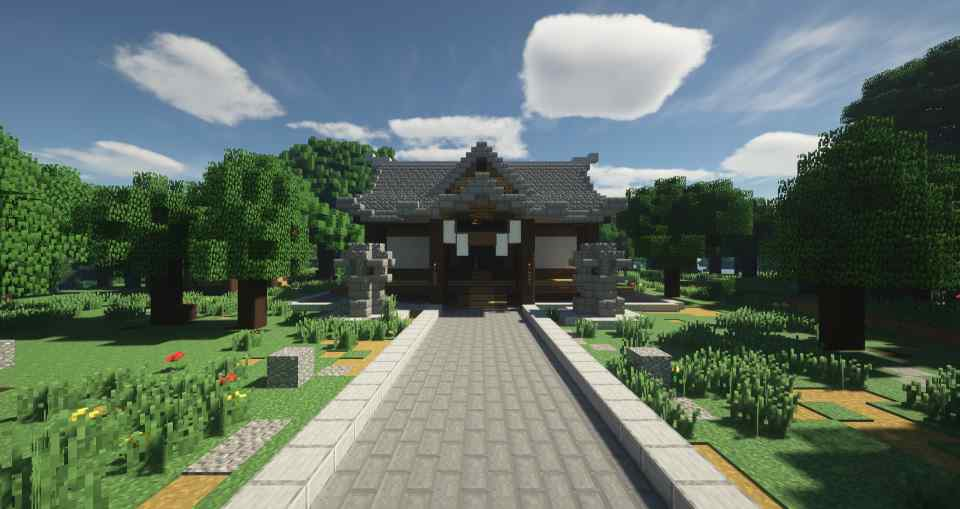
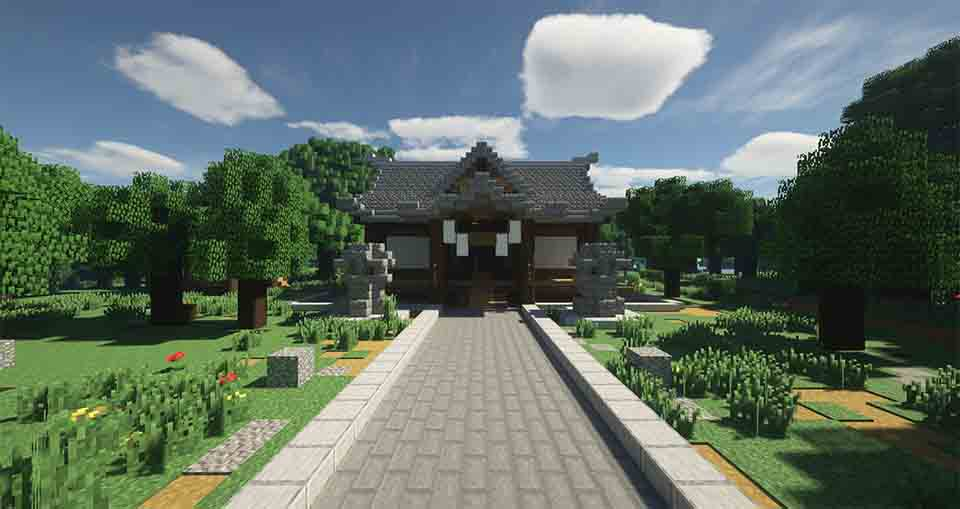
Use WebP images

diff --git a/src/modernizr-custom.js b/src/modernizr-custom.js
@@ -1,0 +1,3 @@
+/*! modernizr 3.6.0 (Custom Build) | MIT *
+ * https://modernizr.com/download/?-webp-setclasses !*/
[1 lines of base64/hex data omitted]

diff --git a/src/pages/InfoPage.vue b/src/pages/InfoPage.vue
@@ -1,5 +1,5 @@
 <template>
-	<normal-page :parallax-high-res-image="require('../images/hakurei.png')" :parallax-low-res-image="require('../images/hakurei_small.jpg')">
+	<normal-page :parallax-images="images">
 		<template v-slot:parallax>
 			<h1>Yukkuricraft Info</h1>
 			<p>A collection of information so you don't have to go looking for it elsewhere.</p>
@@ -24,7 +24,7 @@
 			</div>
 			<div class="col-md-6">
 				<div class="embed-responsive embed-responsive-16by9">
-					<iframe v-if="pageLoaded" class="embed-responsive-item" src="https://www.youtube-nocookie.com/embed/L6mD2zj8CGs"
+					<iframe loading="lazy" class="embed-responsive-item" src="https://www.youtube-nocookie.com/embed/L6mD2zj8CGs"
 							frameborder="0" allow="accelerometer; autoplay; encrypted-media; gyroscope; picture-in-picture"
 							allowfullscreen></iframe>
 				</div>
@@ -77,12 +77,6 @@
 					<li><a href="https://forms.gle/gwFiECrDKNiJwLzH8">Ban appeals</a></li>
 				</ul>
 			</div>
-			<!--
-			<div class="col-md-4">
-				<iframe src="https://discordapp.com/widget?id=201938197171798017&theme=light"
-						width="350" height="500" allowtransparency="true" frameborder="0"></iframe>
-			</div>
-			-->
 		</div>
 
 		<h2 id="contact">Contact Us</h2>
@@ -108,6 +102,7 @@
 	import ParallaxImage from "../components/ParallaxImage";
 	import InfoFooter from "../components/InfoFooter";
 	import NormalPage from "../layout/NormalPage";
+	import {makeImage} from "../images";
 
 	export default {
 		components: {
@@ -115,14 +110,15 @@
 			ParallaxImage,
 			InfoFooter
 		},
-		data() {
-			return {
-				pageLoaded: false
+		computed: {
+			images() {
+				return makeImage(
+					require('../images/hakurei.png'),
+					require('../images/hakurei.webp'),
+					require('../images/hakurei_small.jpg'),
+					require('../images/hakurei_small.webp'),
+				)
 			}
-		},
-		mounted() {
-			//Delay loading youtube video just a bit
-			this.pageLoaded = true;
 		}
 	}
 </script>

diff --git a/src/components/ParallaxImage.vue b/src/components/ParallaxImage.vue
@@ -1,6 +1,11 @@
 <template>
 	<div class="parallax" :style="{height: '600px', 'background-image': 'url(' + imageToUse + ')' }">
-		<img v-show="false" :src="highResImage" @load="switchImage" alt="High res background">
+		<picture @load="switchImage">
+			<source :srcset="images.highResWebp" type="image/webp" @load="switchImage">
+			<source :srcset="images.highRes" :type="images.type" @load="switchImage">
+
+			<img v-show="false" :src="images.highRes" @load="switchImage" alt="High res background">
+		</picture>
 		<div class="container h-100">
 			<div class="row text-center align-items-center h-100">
 				<div class="col-md-2"></div>
@@ -17,20 +22,25 @@
 	export default {
 		data() {
 			return {
-				imageToUse: this.lowResImage,
+				imageToUse: Modernizr.webp ? this.images.lowResWebp : this.images.lowRes
 			}
 		},
 		props: {
-			lowResImage: String,
-			highResImage: String,
+			images: Object,
 			height: {
 				type: Number,
 				default: 600
 			}
 		},
 		methods: {
-			switchImage() {
-				this.imageToUse = this.highResImage;
+			switchImage(event) {
+				console.log(event);
+				if(typeof event.target.currentSrc === 'undefined') {
+					this.imageToUse = event.target.src;
+				}
+				else {
+					this.imageToUse = event.target.currentSrc;
+				}
 			}
 		}
 	}

diff --git a/src/pages/gensokyo/LocationsPage.vue b/src/pages/gensokyo/LocationsPage.vue
@@ -1,6 +1,5 @@
 <template>
-	<sidebar-page :parallax-high-res-image="require('../../images/greenhouse.png')"
-				  :parallax-low-res-image="require('../../images/greenhouse.png')">
+	<sidebar-page :parallax-images="images">
 		<template v-slot:sidebar>
 			<div class="sidebar-header">
 				<h2>Locations</h2>
@@ -38,6 +37,7 @@
 	import neoYoukaiMnt from "./neo/youkai_mnt.yaml";
 	import neoHumanVillage from "./neo/human_village.yaml";
 	import neoForestMagic from "./neo/forest_magic.yaml"
+	import {makeImage} from "../../images";
 
 
 	let allLocations = merge({}, neoGenso, neoSdm, neoUntroddenValley, neoYoukaiMnt, neoHumanVillage, neoForestMagic);
@@ -49,6 +49,14 @@
 			Locations
 		},
 		computed: {
+			images() {
+				return makeImage(
+					require('../../images/greenhouse.png'),
+					require('../../images/greenhouse.webp'),
+					require('../../images/greenhouse_small.jpg'),
+					require('../../images/greenhouse_small.webp'),
+				)
+			},
 			locations() {
 				return allLocations
 			}

diff --git a/src/pages/downloads/Download.vue b/src/pages/downloads/Download.vue
@@ -1,5 +1,5 @@
 <template>
-	<normal-page :parallax-high-res-image="require('../../images/hakurei_inside.png')" :parallax-low-res-image="require('../../images/hakurei_inside_small.jpg')">
+	<normal-page :parallax-images="images">
 		<template v-slot:parallax>
 			<h1>"Gensokyo ~ The Second Dream" Map download</h1>
 			<a class="btn btn-primary" href="https://mega.nz/#F!5hU2HCJC!IpwU8ZjpwSALOgLjoZtNlA">Downloads</a>
@@ -47,12 +47,21 @@
 
 <script>
 	import NormalPage from "../../layout/NormalPage";
+	import {makeImage} from "../../images";
 
 	export default {
 		components: {NormalPage},
 		computed: {
 			showI18nExample() {
 				return false
+			},
+			images() {
+				return makeImage(
+					require('../../images/hakurei_inside.png'),
+					require('../../images/hakurei_inside.webp'),
+					require('../../images/hakurei_inside_small.jpg'),
+					require('../../images/hakurei_inside_small.webp'),
+				)
 			}
 		}
 	}

diff --git a/src/pages/commands/CommandsPage.vue b/src/pages/commands/CommandsPage.vue
@@ -1,5 +1,5 @@
 <template>
-	<sidebar-page :parallax-high-res-image="require('../../images/commands.png')" :parallax-low-res-image="require('../../images/commands_small.jpg')">
+	<sidebar-page :parallax-images="images">
 		<template v-slot:sidebar>
 			<div class="sidebar-header">
 				<h2>Commands</h2>
@@ -50,6 +50,7 @@
 	import chatCmds from "./chat_commands.yaml";
 	import lwcCmds from "./lwc_commands.yaml";
 	import hshCmds from "./hsh_commands.yaml";
+	import {makeImage} from "../../images";
 
 	let allCommands = {...generalCmds, ...tpCmds, ...chatCmds, ...lwcCmds, ...hshCmds}
 
@@ -67,6 +68,14 @@
 			}
 		},
 		computed: {
+			images() {
+				return makeImage(
+					require('../../images/commands.png'),
+					require('../../images/commands.webp'),
+					require('../../images/commands_small.jpg'),
+					require('../../images/commands_small.webp'),
+				)
+			},
 			commands() {
 				let filter = this.filter;
 

diff --git a/src/pages/gensokyo/HelpPage.vue b/src/pages/gensokyo/HelpPage.vue
@@ -1,6 +1,5 @@
 <template>
-	<sidebar-page :parallax-high-res-image="require('../../images/pond.png')"
-				  :parallax-low-res-image="require('../../images/pond.png')">
+	<sidebar-page :parallax-images="images">
 		<template v-slot:sidebar>
 			<div class="sidebar-header">
 				<h2>Locations</h2>
@@ -42,6 +41,7 @@
 	import LocationSidebarEntries from "./LocationSidebarEntries"
 
 	import locations from "./help_locations.yaml";
+	import {makeImage} from "../../images";
 
 	export default {
 		components: {
@@ -50,6 +50,14 @@
 			LocationSidebarEntries
 		},
 		computed: {
+			images() {
+				return makeImage(
+					require('../../images/pond.png'),
+					require('../../images/pond.webp'),
+					require('../../images/pond_small.jpg'),
+					require('../../images/pond_small.webp'),
+				)
+			},
 			locations() {
 				return locations;
 			}

diff --git a/src/pages/downloads/DownloadSurvival.vue b/src/pages/downloads/DownloadSurvival.vue
@@ -1,5 +1,5 @@
 <template>
-	<normal-page :parallax-high-res-image="require('../../images/hakurei_inside.png')" :parallax-low-res-image="require('../../images/hakurei_inside_small.jpg')">
+	<normal-page :parallax-images="images">
 		<template v-slot:parallax>
 			<h1>Past Survival downloads</h1>
 			<p>Download the maps of past survival worlds</p>
@@ -30,7 +30,18 @@
 
 <script>
 	import NormalPage from "../../layout/NormalPage";
+	import {makeImage} from "../../images";
 	export default {
-		components: {NormalPage}
+		components: {NormalPage},
+		computed: {
+			images() {
+				return makeImage(
+					require('../../images/hakurei_inside.png'),
+					require('../../images/hakurei_inside.webp'),
+					require('../../images/hakurei_inside_small.jpg'),
+					require('../../images/hakurei_inside_small.webp'),
+				)
+			}
+		}
 	}
 </script>

diff --git a/src/pages/RulesPage.vue b/src/pages/RulesPage.vue
@@ -1,9 +1,10 @@
 <template>
-	<markdown-page :parallax-high-res-image="require('../images/rules.png')" :parallax-low-res-image="require('../images/rules_small.jpg')" title="Rules" :localized-content="rules"></markdown-page>
+	<markdown-page :parallax-images="images" title="Rules" :localized-content="rules"></markdown-page>
 </template>
 <script>
 	import MarkdownPage from "./markdown/MarkdownPage";
 	import rulesEn from "./RulesEN.md"
+	import {makeImage} from "../images";
 
 	export default {
 		components: {MarkdownPage},
@@ -12,6 +13,14 @@
 				return {
 					en: rulesEn
 				}
+			},
+			images() {
+				return makeImage(
+					require('../images/rules.png'),
+					require('../images/rules.webp'),
+					require('../images/rules_small.jpg'),
+					require('../images/rules_small.webp'),
+				)
 			}
 		}
 	}

diff --git a/src/pages/RanksStaffPage.vue b/src/pages/RanksStaffPage.vue
@@ -1,5 +1,5 @@
 <template>
-	<normal-page :parallax-high-res-image="require('../images/people.png')" :parallax-low-res-image="require('../images/people_small.jpg')">
+	<normal-page :parallax-images="images">
 		<template v-slot:parallax>
 			<h1>Ranks and Staff</h1>
 		</template>
@@ -193,6 +193,7 @@
 
 	import staff from "./staff";
 	import NormalPage from "../layout/NormalPage";
+	import {makeImage} from "../images";
 
 	export default {
 		components: {
@@ -214,6 +215,16 @@
 						})
 					}
 				}
+			}
+		},
+		computed: {
+			images() {
+				return makeImage(
+					require('../images/people.png'),
+					require('../images/people.webp'),
+					require('../images/people_small.jpg'),
+					require('../images/people_small.webp'),
+				)
 			}
 		},
 		methods: {

diff --git a/src/pages/markdown/MarkdownPage.vue b/src/pages/markdown/MarkdownPage.vue
@@ -1,5 +1,5 @@
 <template>
-	<normal-page :parallax-high-res-image="parallaxHighResImage" :parallax-low-res-image="parallaxLowResImage">
+	<normal-page :parallax-images="parallaxImages">
 		<template v-slot:parallax>
 			<h1>{{ title }}</h1>
 		</template>
@@ -16,8 +16,7 @@
 		components: {Markdown, NormalPage},
 		props: {
 			parallaxHeight: Number,
-			parallaxLowResImage: String,
-			parallaxHighResImage: String,
+			parallaxImages: String,
 			title: String,
 			content: String,
 			localizedContent: Object

diff --git a/src/layout/SidebarPage.vue b/src/layout/SidebarPage.vue
@@ -14,7 +14,7 @@
 				</template>
 			</info-header>
 
-			<parallax-image :height="parallaxHeight" :low-res-image="parallaxLowResImage" :high-res-image="parallaxHighResImage">
+			<parallax-image :height="parallaxHeight" :images="parallaxImages">
 				<slot name="parallax"></slot>
 			</parallax-image>
 
@@ -39,9 +39,8 @@
 			ParallaxImage
 		},
 		props: {
+			parallaxImages: Object,
 			parallaxHeight: Number,
-			parallaxLowResImage: String,
-			parallaxHighResImage: String,
 		},
 		data() {
 			return {
